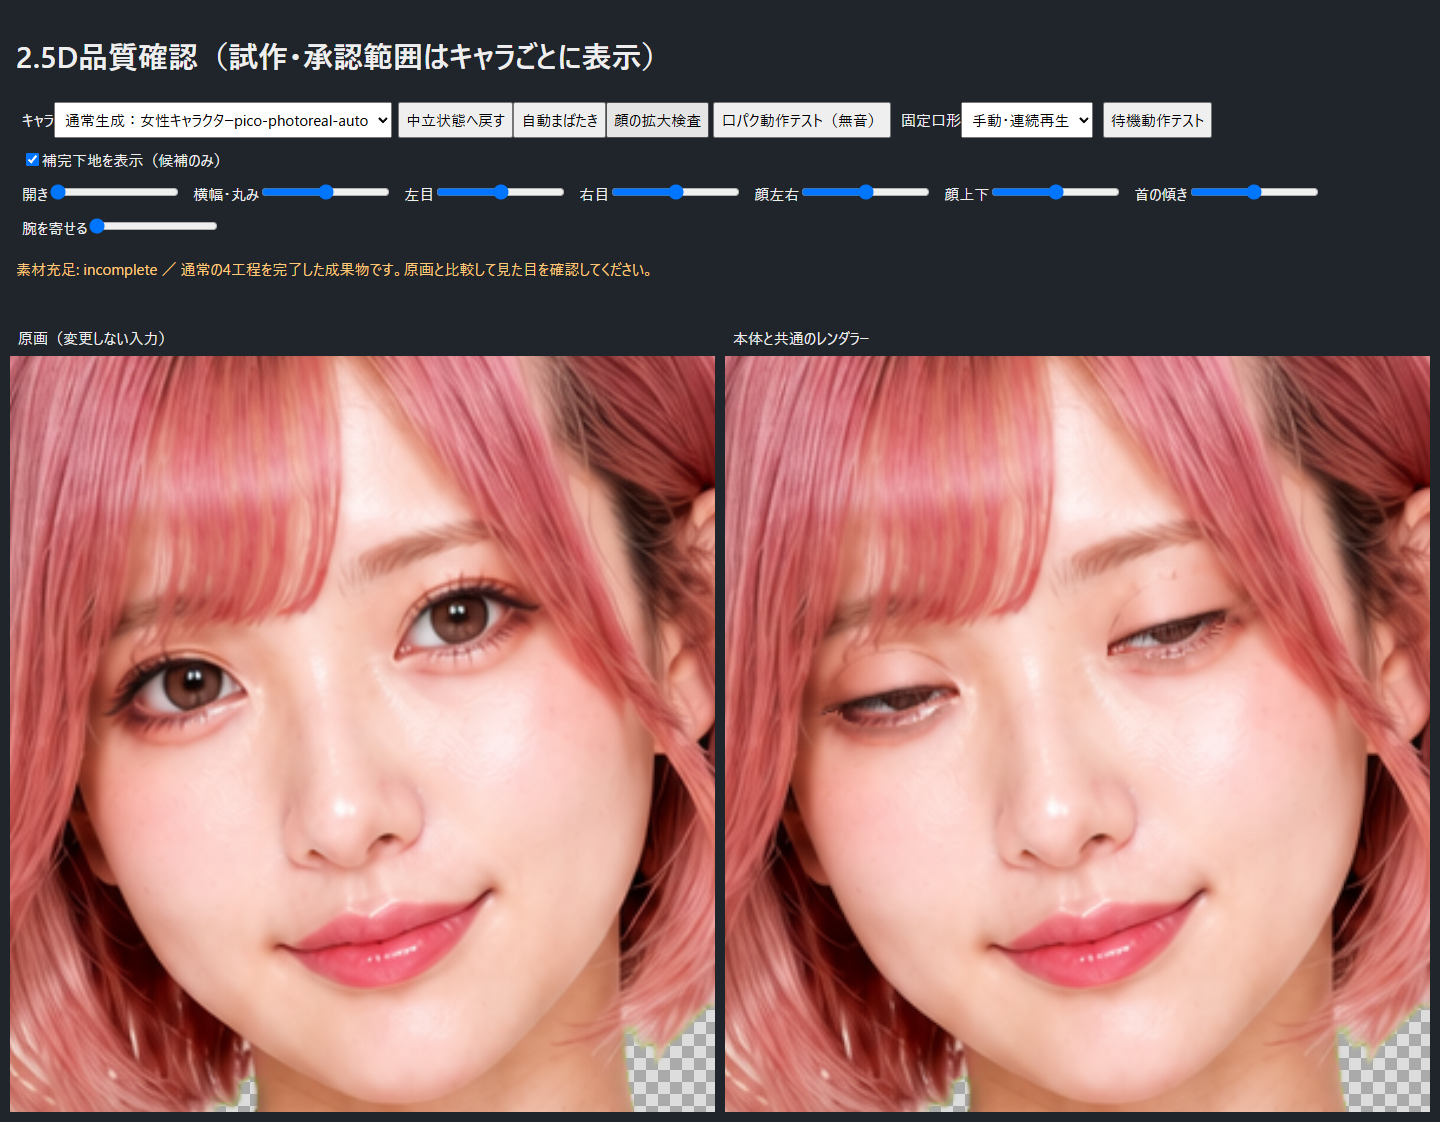
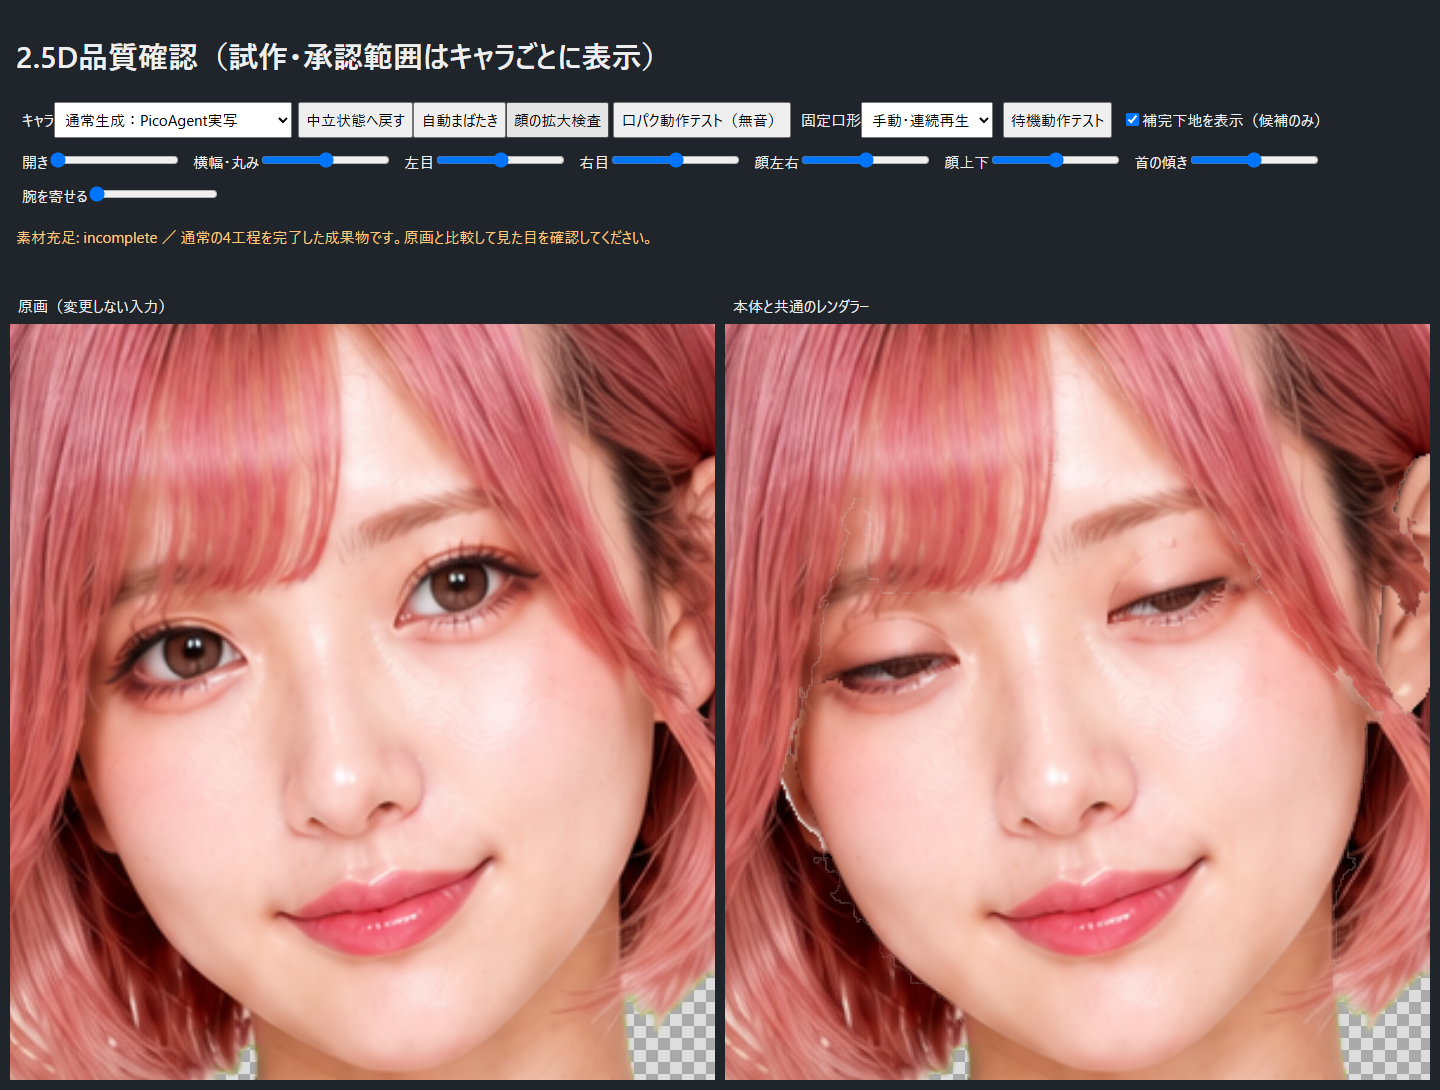
fix: 実写の通常生成を完走し現品質で受入れ可能にする

diff --git a/sidecar/completion/hidden_assemble.py b/sidecar/completion/hidden_assemble.py
@@ -32,6 +32,16 @@ def composite(rig, parts):
     return np.array(result)
 
 
+def same_visible_rgba(left, right):
+    """透明画素の不可視RGBは比較せず、アルファと可視RGBを厳密に比較する。"""
+    if left.shape != right.shape or left.dtype != np.uint8 or right.dtype != np.uint8:
+        return False
+    if not np.array_equal(left[:, :, 3], right[:, :, 3]):
+        return False
+    visible = left[:, :, 3] > 0
+    return np.array_equal(left[:, :, :3][visible], right[:, :, :3][visible])
+
+
 def put_part(rig, parts, name, full, pivot, z_index):
     image = Image.fromarray(full); box = image.getchannel('A').getbbox()
     if box is None:
@@ -69,7 +79,7 @@ def assemble_hidden(rig, parts, source, masks, bald, side, region, settings,
         if pixels.dtype != np.uint8 or pixels.shape != (box[3]-box[1], box[2]-box[0], 4):
             raise ValueError('素材の原寸が不正です: '+name)
     before = composite(rig, parts)
-    if not np.array_equal(before, source):
+    if not same_visible_rgba(before, source):
         raise ValueError('補完前の全中立合成が原画と一致しません')
     updated = copy.deepcopy(rig)
     output = {name: image.copy() for name, image in parts.items()}

diff --git a/sidecar/completion/test_hidden_materials.py b/sidecar/completion/test_hidden_materials.py
@@ -1,11 +1,20 @@
 import unittest
 import numpy as np
 from hidden_materials import HiddenSettings, extract_hidden_roi, extract_ear_repair, ear_policy, validate_neutral
-from hidden_assemble import composite
+from hidden_assemble import composite, same_visible_rgba
 from hidden_jobs import generation_identity
 
 
 class DraftTests(unittest.TestCase):
+    def test_visible_rgba_ignores_only_transparent_rgb(self):
+        source=np.array([[[12,34,56,0],[7,8,9,255]]],dtype=np.uint8)
+        composed=np.array([[[0,0,0,0],[7,8,9,255]]],dtype=np.uint8)
+        self.assertTrue(same_visible_rgba(source,composed))
+        alpha=composed.copy();alpha[0,0,3]=1
+        self.assertFalse(same_visible_rgba(source,alpha))
+        visible=composed.copy();visible[0,1,0]=6
+        self.assertFalse(same_visible_rgba(source,visible))
+
     def test_alpha254_hidden_and_ear_preserve_original_alpha(self):
         source = np.full((80, 80, 4), 180, np.uint8); source[:, :, 3] = 254
         before = source.copy(); generated = source.copy(); generated[:, :, :3] = 120

diff --git a/docs/CHARACTER_GALLERY.md b/docs/CHARACTER_GALLERY.md
@@ -2,7 +2,7 @@
 
 原画1枚からの通常生成と、承認済み比較候補の確認ページです。左は変更しない原画、右は本体と共通の2.5Dレンダラーです。2026年9月7日、Chrome・1440×1050の確認画面で撮影しています。新旧の生成条件は各項目に明記し、画像をタップすると拡大表示できます。
 
-これは実走・動作の確認用であり、ひより相当の全身可動や全キャラの最終品質合格を示すページではありません。口は現在の形で暫定承認され、追加造形調整を保留しています。
+これは実走・動作の確認用です。2026年9月7日に利用者判断で、現状の見た目を今回の実装完了基準として受け入れました。ひより相当の全身可動へ到達したという意味ではなく、下記の既知の粗さは将来の追加調整まで保留します。口は現在の形で暫定承認され、追加造形調整を保留しています。
 
 ## むぎ：通常生成版の最新検証（全体品質は未合格）
 
@@ -30,7 +30,11 @@
 
 ## PicoAgent実写テスト
 
-依頼対象の`photoreal-prototype`（ピンクのショートヘア、黒とピンクの衣装）を使用。別の女性素材ではありません。1024×1536の原画から同じ通常工程で生成し、局所閉眼は608×608の原寸領域を編集しています。原画SHAの一致を検査済みです。
+依頼対象の`photoreal-prototype`（ピンクのショートヘア、黒とピンクの衣装）を使用。別の女性素材ではありません。1024×1536の原画から、閉眼・隠れ顔・耳を含む同じ通常4工程で生成し、局所編集は608×608の原寸領域です。原画SHAの一致を検査し、公開世代`g_5f886747550e4b87a0e6c52b0ec72290`をChrome・1440×1050で撮影しました。
+
+![PicoAgent実写の実際の口パク・まばたき](character-gallery-25d/pico-photo/motion.gif)
+
+共通レンダラーの8秒の実録画から作った縮小GIFです。録画は136フレーム、実測約17.0 fps（要求20 fps）。GIFは確認用で、原寸素材や透過品質の証拠には使いません。
 
 [![原画と通常生成の全体比較](character-gallery-25d/pico-photo/full.png)](character-gallery-25d/pico-photo/full.png)
 
@@ -40,7 +44,7 @@
 
 [開口「あ」](character-gallery-25d/pico-photo/mouth-a.png)・[小角度の顔向き](character-gallery-25d/pico-photo/left.png)
 
-確認範囲: 通常4工程の完走、原画保持、中立・半閉眼・完全閉眼・開口・小角度表示。眉下の細い境界と、実写に対する口内のイラスト寄りの質感は残っています。素材充足表示の`incomplete`を完成品質の意味へ読み替えないでください。
+確認範囲: 通常4工程の完走、原画保持、中立・半閉眼・完全閉眼・口2軸、左右別閉眼、小角度・腕・8秒の連続表示。取得エラーは0件でした。顔と髪の細い境界、腕移動時の輪郭、実写に対する口内のイラスト寄りの質感は残っています。素材充足表示の`incomplete`はLive2D相当の詳細部位が不足する構造診断であり、今回の動作完了とは区別します。
 
 ## むぎ：旧・閉眼のみの通常生成（比較記録）
 
@@ -66,7 +70,7 @@
 |---|---|
 | [![半閉眼](character-gallery-25d/female-a/half.png)](character-gallery-25d/female-a/half.png) | [![完全閉眼](character-gallery-25d/female-a/closed.png)](character-gallery-25d/female-a/closed.png) |
 
-目の上下に細い境界・残片があるため最終品質は未合格です。顔を大きく表示した際の原画自体の解像感も確認できます。原画を補間拡大した素材へ置き換えてはいません。
+目の上下に細い境界・残片があります。さらに現行の隠れ顔版3では別目混入を改善しましたが、左右耳を必須とする検査で左耳補完が成立せず、最新の通常最終世代は公開していません。この入力の追加改善は今回の完了対象から保留します。顔を大きく表示した際の原画自体の解像感も確認でき、原画を補間拡大した素材へ置き換えてはいません。
 
 ## 動かして確認する
 

diff --git a/docs/TASKS.md b/docs/TASKS.md
@@ -10,7 +10,11 @@
 - 対象原画は女性A・むぎ・PicoAgentの「実写・物理演算テスト」（`photoreal-prototype`）。実写は実験用で公式キャラと分ける。別の実写原画や同名候補へ取り違えず、入力SHAで照合する。
 - 承認済み旧候補と原画は保持する。耳・閉眼など個別候補への承認を、全キャラ・全工程の品質承認へ広げない。
 
-## T11. 共通パイプラインとリグの未完了事項
+## 保留中の追加品質作業
+
+2026年9月7日、利用者が「いったん今のクオリティでよい」と判断したため、以下は今回のPRの完了条件から外し、追加指示があるまで着手しない。現行成果物をひより相当・Live2D完成と読み替えない。
+
+### T11. 共通パイプラインとリグの追加改善
 
 着手順は以下とする。閉眼の通常統合だけで全体完成とは扱わない。
 
@@ -21,7 +25,7 @@
 5. **公開世代の実画面検証を仕上げる。** 不変世代と小参照の原子置換、実行状態との分離、OS読者lease、HTTP固定世代ストリームは実装・CPU検証済み。むぎの通常公開とChrome読込も成功した。3キャラの連続切替・資源解放を実測する。分解／基底リグなど全工程の起動復旧まで保証したものではない。
 6. **共通動作を回帰確認する。** 本体・ブラウザ確認画面の共通レンダラーを維持し、無音時の閉口、`MouthOpenY × MouthForm`、左右まばたき、小角度の首・体・腕・髪、透明境界、キャラ切替時の資源解放を検証する。追加口造形は保留したまま、既存動作の破綻は修正する。
 
-## T12. 再現性・全キャラ品質とスマホ確認
+### T12. 再現性・全キャラ品質の追加改善
 
 - T11の修正を同一処理・同一設定で対象3原画へ適用する。キャラ名による分岐や専用座標を追加しない。現行版の全3キャラ完成は未実走・未承認として扱う。
 - SPEC 4.2に従い、未知の立ち絵を保留検証用に1枚以上用い、既知3体だけへの適合と量産時の再現性を区別する。

diff --git a/README.md b/README.md
@@ -109,7 +109,7 @@ cargo xtask dev
 
 中心資産は`layers/manifest.json`、`layers/parts/`、`rig-current.json`が指す完成リグです。`character.json`で各工程の`pending / running / complete / failed`と理由を管理します。再生成中・失敗後でも公開済みの世代は表示できますが、未公開成果物を完成とは扱いません。
 
-未補完リグは`rig2d-base/`へ保存し、`complete`成功時に不変世代を公開します。閉眼だけだった旧条件の通常4工程はPico実写約19分08秒・むぎ約25分24秒・女性A約19分41秒。追加2編集を含む新条件のむぎは約65分で正常終了しましたが、新共通抽出・袖手解析を適用した再生成と全3原画の最終目視は未確認です。設定と起動手順は[開発手順](docs/DEVELOPMENT.md#通常の局所補完)、品質の未達点は[実画面ギャラリー](docs/CHARACTER_GALLERY.md)を参照してください。
+未補完リグは`rig2d-base/`へ保存し、`complete`成功時に不変世代を公開します。閉眼だけだった旧条件の通常4工程はPico実写約19分08秒・むぎ約25分24秒・女性A約19分41秒。閉眼・隠れ顔・耳の3編集を含む現行条件は、むぎとPico実写で通常公開とChrome実動作を確認しました。女性Aは左耳補完が成立せず、失敗を成功へ降格していません。2026年9月7日に利用者が現状品質を今回の完了基準として受け入れ、残る品質改善は追加指示まで保留しました。設定と起動手順は[開発手順](docs/DEVELOPMENT.md#通常の局所補完)、実画像と既知の粗さは[実画面ギャラリー](docs/CHARACTER_GALLERY.md)を参照してください。
 
 ```text
 characters/<characterId>/
